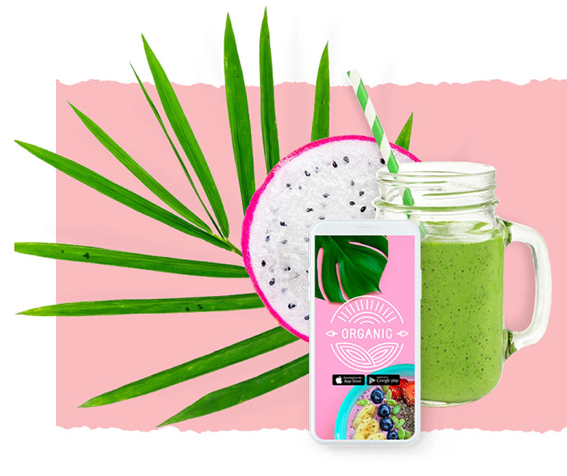
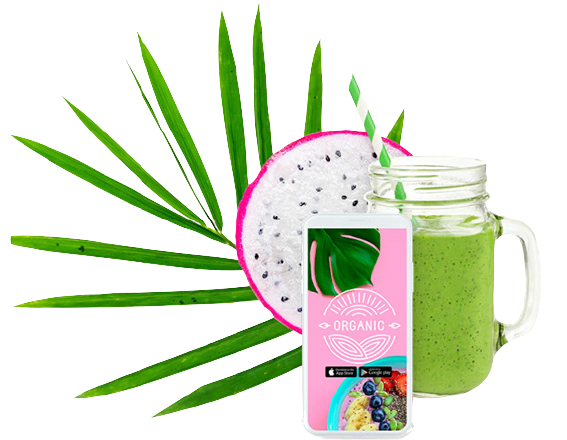
page-six not yet responsive

diff --git a/src/components/pageSix/pageSix.css b/src/components/pageSix/pageSix.css
@@ -1,0 +1,101 @@
+.pageSix {
+	font-family: "Poppins", sans-serif;
+    background-image: url("../../images/asset2.png");
+   background-repeat: no-repeat;
+	background-position: center;
+   background-size: 950px;
+}
+
+.pageSix-content {
+	display: flex;
+   flex-direction: row;
+	padding: 0 10rem;
+}
+
+@media screen and (max-width: ) {
+   
+}
+/* .pageSix-content > * {
+	flex: 1 1 160px;
+	margin: 10px;
+} */
+
+.pageSix-content__left {
+   flex: 1;
+}
+
+.pageSix-content__left img{
+ max-width: 450px;
+ padding-bottom: 2rem;
+ height: auto;  
+}
+
+.pageSix-content__right {
+   flex: 1;
+	display: flex;
+	flex-direction: column;
+	justify-content: center;
+	color: white;
+	/* padding-top: 3rem; */
+}
+
+.pageSix-content__right p {
+	font-size: 0.9rem;
+	line-height: 1rem;
+	color: rgb(248, 239, 239) !important;
+	padding: 1rem 0;
+}
+
+.pageSix-content__right-header {
+	font-size: 1.5rem;
+	line-height: 1rem;
+	font-weight: 100;
+}
+
+.pageSix-content__right form {
+	display: flex;
+	flex-wrap: wrap;
+	/* padding: 0 5rem; */
+}
+
+.pageSix-content__right form > * {
+	/* flex: 1 1 160px; */
+	margin: 10px;
+}
+
+.pageSix-content__right form input {
+	background-color: #fabcbf;
+	width: 200px;
+}
+
+.pageSix-content__right form input::placeholder {
+	color: rgb(248, 239, 239) !important;
+}
+
+.pageSix-content__right form button {
+	/* margin-left: 2rem; */
+	background-color: #fa8c91;
+	/* width: 150px; */
+}
+
+.pageSix__form-group {
+	padding: 0.7rem 2rem;
+	border-radius: 5px;
+	color: rgb(248, 239, 239) !important;
+	border: 0.5px solid rgb(248, 239, 239) !important;
+}
+
+.pageSix-content__app-market a {
+	text-decoration: none;
+}
+
+.pageSix-content__app-market a:nth-child(2) {
+	padding-left: 2rem;
+}
+
+.pageSix-content__app-market a img {
+	width: 115px;
+	height: auto;
+	padding-top: 2rem;
+	border-radius: 6px;
+}

diff --git a/src/components/pageSix/Pagesix.jsx b/src/components/pageSix/Pagesix.jsx
@@ -1,0 +1,44 @@
+import React from "react";
+import "./pageSix.css";
+import Asset1 from "../../images/asset1.png";
+import AppleStore from "../../images/apple-store.png";
+import GoogleStore from "../../images/google-store.png";
+
+
+const Pagesix = () => {
+	return (
+		<div className="pageSix">
+			<div className="pageSix-content">
+				<div className="pageSix-content__left">
+					<img src={Asset1} alt="" />
+				</div>
+				<div className="pageSix-content__right">
+					<div className="pageSix-content__right-header">Get Our Recipes Now!</div>
+					<p>Fruits are an excellent source of vitamins and minerals</p>
+					<form action="">
+						<input
+							type="email"
+							name="email"
+							placeholder="Email"
+							className="pageSix__form-group"
+						/>
+						<button type="submit" className="pageSix__form-group">
+							Subscribe
+						</button>
+					</form>
+
+					<div className="pageSix-content__app-market">
+						<a href="@#">
+							<img src={AppleStore} alt="" />
+						</a>
+						<a href="@#">
+							<img src={GoogleStore} alt="" />
+						</a>
+					</div>
+				</div>
+			</div>
+		</div>
+	);
+};
+
+export default Pagesix;

diff --git a/src/App.js b/src/App.js
@@ -1,10 +1,12 @@
 import React from "react";
 import Footer from "./components/footer/Footer";
 import PageSeven from "./components/pageSeven/PageSeven";
+import Pagesix from "./components/pageSix/Pagesix";
 
 const App = () => {
 	return (
 		<>
+			<Pagesix />
 			<PageSeven />
 			<Footer />
 		</>

diff --git a/src/App.css b/src/App.css
@@ -1,6 +1,5 @@
 @import url("https://fonts.googleapis.com/css2?family=Poppins:wght@400;500&display=swap");
 @import url("https://fonts.googleapis.com/css?family=Poppins&display=swap");
-@import url("https://fonts.googleapis.com/css?family=Bree+Serif&display=swap");
 
 * {
    box-sizing: border-box;

diff --git a/src/components/footer/Footer.jsx b/src/components/footer/Footer.jsx
@@ -18,9 +18,6 @@ import * as MdIcons from "react-icons/md";
 import * as HiIcons from "react-icons/hi";
 import * as GrIcons from "react-icons/gr";
 
-
-
-
 import './footer.css';
 
 const Footer = () => {

diff --git a/src/components/pageSeven/pageSeven.css b/src/components/pageSeven/pageSeven.css
@@ -1,3 +1,7 @@
+.pageSeven {
+   font-family: "Poppins", sans-serif;
+}
+
 .pageSeven__header {
    width: 100%;
    text-align: center;

diff --git a/src/components/footer/footer.css b/src/components/footer/footer.css
@@ -1,3 +1,7 @@
+.footer {
+   font-family: "Poppins", sans-serif;
+}
+
 .footer__header {
    width: 100%;
    text-align: center;
